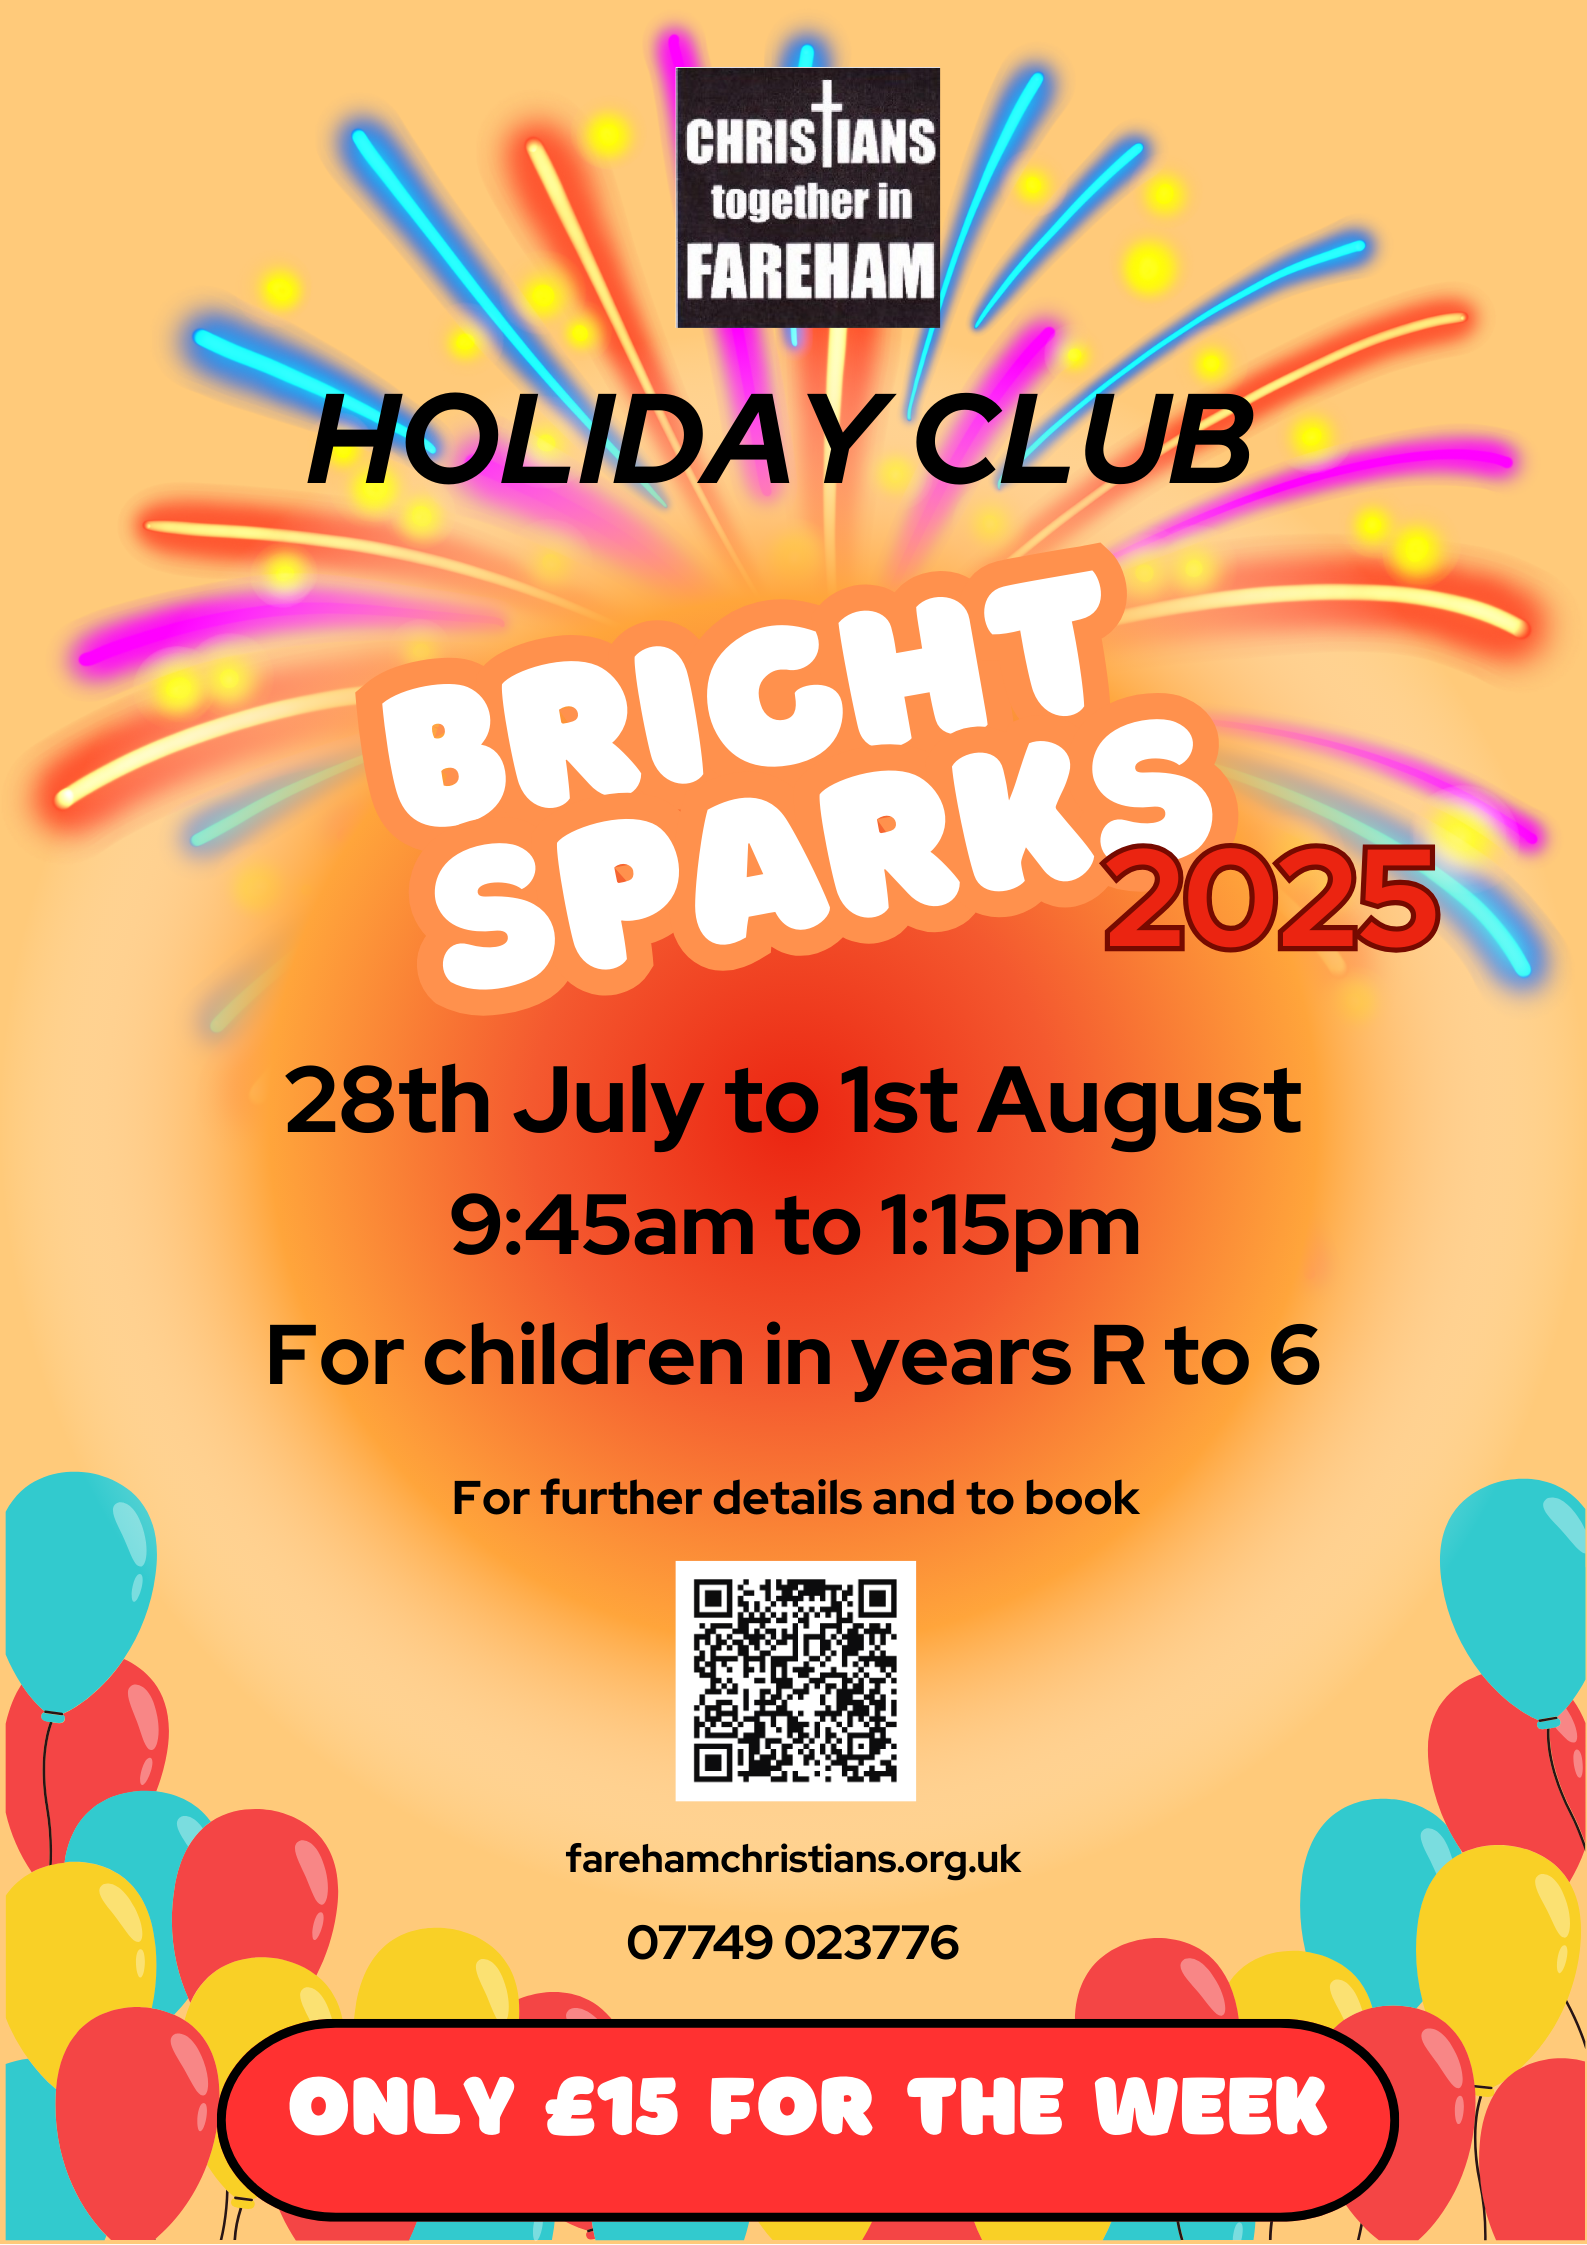
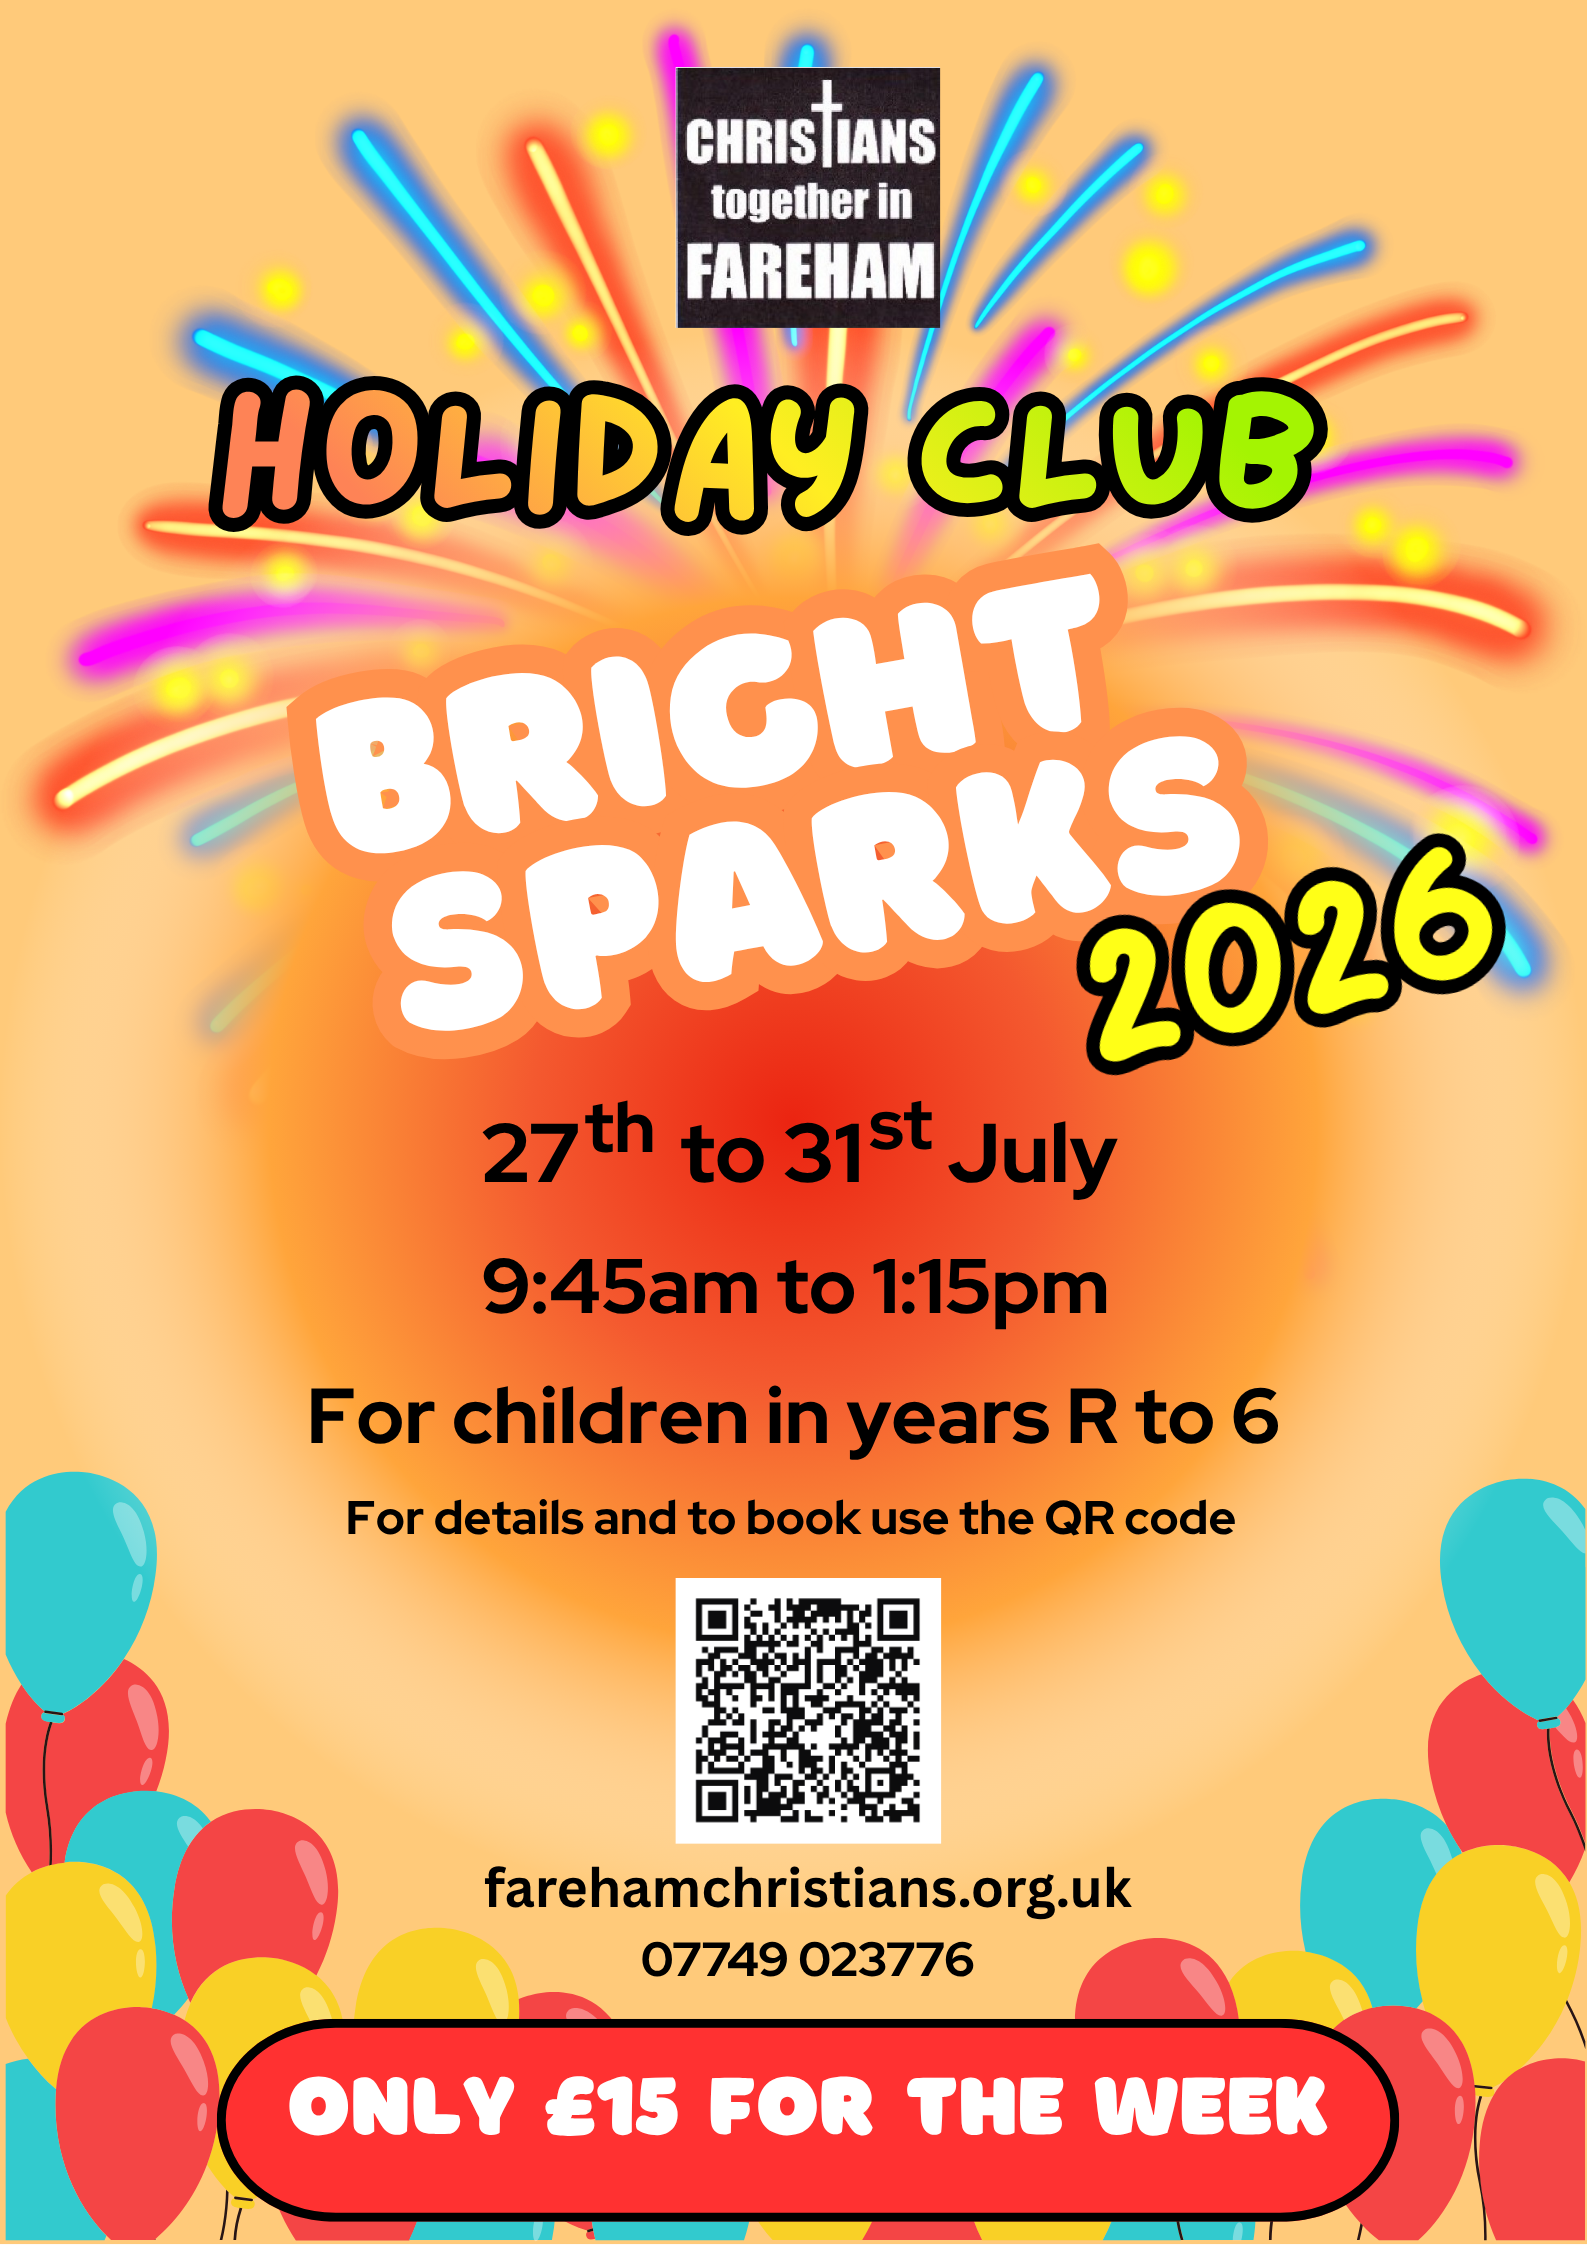
Holiday club

Changed region(s): [[0.1235, 0.1559, 0.9572, 0.9042]]

diff --git a/public/holclubreg.php b/public/holclubreg.php
@@ -3,7 +3,7 @@
 <head>
 <meta charset="UTF-8">
 <link href="site.css" rel="stylesheet" type="text/css">
-<title>Holiday Club 2025</title>
+<title>Holiday Club 2026</title>
 </head>
 <body>
 <?php
@@ -19,25 +19,23 @@ function today_in_range($start = null, $end = null)
 	return $today >= $start && $today <= $end;
 }
 ?>
-<a href="images/HolCLub.png"><img src="images/HolClub.png" align="right" height="300"></a>
-<h1>Holiday Club 2025</h1>
+<a href="images/HolClub.png"><img src="images/HolClub.png" align="right" height="300"></a>
+<h1>Holiday Club 2026</h1>
 <h2>When is it?</h2>
-Monday 28th July to Friday 1st August - 9.45am to 1.15pm. On Friday 1st August, parents/carers are invited to come along at 12.45pm to watch the 'All Together Activity'. 
+Monday 27th to Friday 31st July - 9.45am to 1.15pm. On Friday 31st July, parents/carers are invited to come along at 12.45pm to watch the 'All Together Activity'. 
 <h2>Where is it?</h2>
 The Holiday Club is based at Gateway Church Fareham (171-173 West Street), but activities will also take place at Fareham United Reformed Church and Fareham Methodist Church.
-You will always drop off your child and pick them up from Gateway Church. Your child will be escorted safely to the other venues. 
+The location for dropping off and picking up your child will always be Gateway Church. The children will be escorted safely to the other venues. 
 <h2>How much does it cost?</h2>
 The cost of the week is &pound;15 per child. However, if the cost for your child/children is a challenge for you, please let us know as we may be able to help. 
 <h2>Is food provided?</h2>
 Yes. The children will be given a snack during the morning, as well as lunch. 
 <h2>How do I book a place for my child?</h2>
-<b>Bookings for the holiday club are now closed.</b>
-<!--
-Fill in <a href="https://form.jotform.com/240794176485064">the registration form.</a> 
+Bookings will open on <b>Wednesday 6th May</b>. Please check back here once bookings are 
+open, and click the link to the registration form.
 <p><b>Please note that demand for the holiday club is likely to be extremely high.
 In fairness to everyone, we ask you only to book if you can ensure that your child 
 will be able to attend all five days.</b>
--->
 <h2>Any other questions?</h2>
 Contact Debs on 07749 023776, or email <a href="mailto:holidayclub@farehamchristians.org.uk">holidayclub@farehamchristians.org.uk</a>
 </body>

diff --git a/public/index.php b/public/index.php
@@ -48,24 +48,21 @@ visit their website</a>, through which
 online grant applications can also be made.
 </div>
 <div>
+<img src="images/calogo.gif" align="left" width="100">
+<p>Our <b>Lent Lunches</b> were a great success, and raised around &pound;800 for Christian Aid.
+Many thanks to those who organised the lunches, those who catered, and all who 
+attended and gave so generously.</a>
+</div>
+<div>
 <p>&nbsp;
 <h2>Upcoming events</h2>
 <div>
-<img src="https://spckpublishing.co.uk/media/catalog/product/cache/cb3521e067d2c6b88107646df6ae4ecd/9/7/9781909107236_1.jpg" align="left" width="100">
-<p><b>Lent Study Groups</b> will run for five weeks, starting in the week beginning
-23rd February. We will be using the York Course <b>Daring to See God Now
-</b> by Bishop Nick Baines, which explores aspects of the 
-Good News proclaimed by Jesus in Mark's Gospel.
-<br>All are welcome to take part. To find out more, please <a href="lent2026.php">click 
-this link.</a>
+<img src="images/HolClub.png" align="left" width="100">
+<p>Our <b>Summer Holiday Club</b> will take place once again during the first full week of the
+school summer holidays, from Monday 27th to Friday 31st July. <a href="holclubreg.php">Click
+this link</a> to find out more.
 </div>
-<div>
-<img src="images/calogo.gif" align="left" width="100">
-<p><b>Lent Lunches</b> are taking place at Fareham United Reformed Church, on Thursdays
-from 26th February to 26th March, at 12.15pm. All are welcome to share a simple meal of
-soup, bread and fruit; there is no charge, but donations are invited to Christian Aid.
-<a href="https://fundraise.christianaid.org.uk/fundraiser-2026/lent-lunches">Donations can be made online by clicking this link.</a>
-</div>
+
 </div>
 </body>
 </html>
